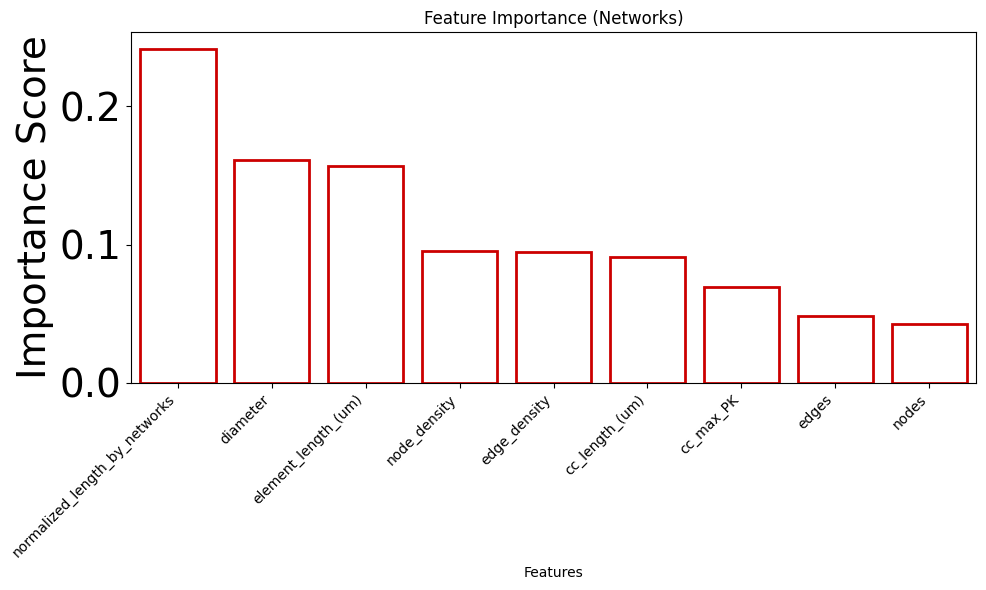
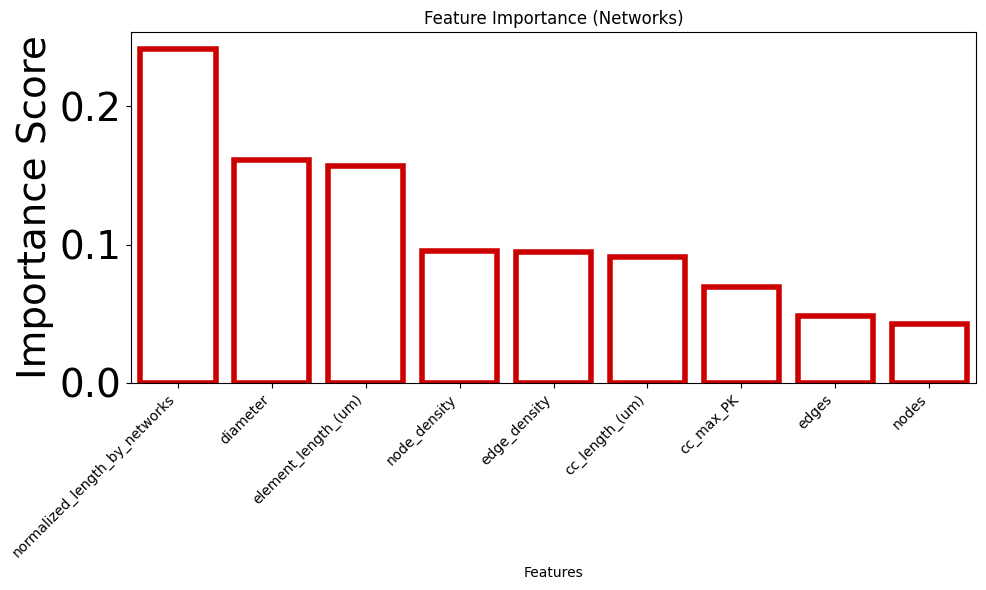
Some more aesthetic changes

Changed region(s): [[0.1521, 0.0915, 1.0, 0.6712], [0.1217, 0.061, 0.213, 0.6407]]

diff --git a/rf_dl/model_analysis.py b/rf_dl/model_analysis.py
@@ -20,7 +20,7 @@ def plot_feature_importance(model, feature_names, top_n=10, title="Top 10 Featur
     
     plt.figure(figsize=(10, 6))
     sns.barplot(x='Feature', y='Importance', data=feature_imp_df.head(top_n), 
-                facecolor='none', edgecolor=color, linewidth=2)
+                facecolor='none', edgecolor=color, linewidth=4)
     
     plt.title(title)
     plt.xlabel('Features')
@@ -57,8 +57,11 @@ def plot_predicted_vs_actual(y_test, y_pred, title="Predicted vs Actual", is_net
     
     # Regression line (Least Squares)
     m, b = np.polyfit(y_test, y_pred, 1)
-    x_line = np.array([min_val, max_val])
-    plt.plot(x_line, m*x_line + b, color='#333333', linewidth=4.0, label='Regression Line (Least Squares)')
+    x_line = np.array([min_val, max_val + 0.1])
+    if is_networked:
+        plt.plot(x_line, m*x_line + b, color='#800000', linewidth=4.0, label='Regression Line (Least Squares)')
+    else:
+        plt.plot(x_line, m*x_line + b, color='#333333', linewidth=4.0, label='Regression Line (Least Squares)')
     
     plt.title(title)
     plt.xlabel("Actual Values")
